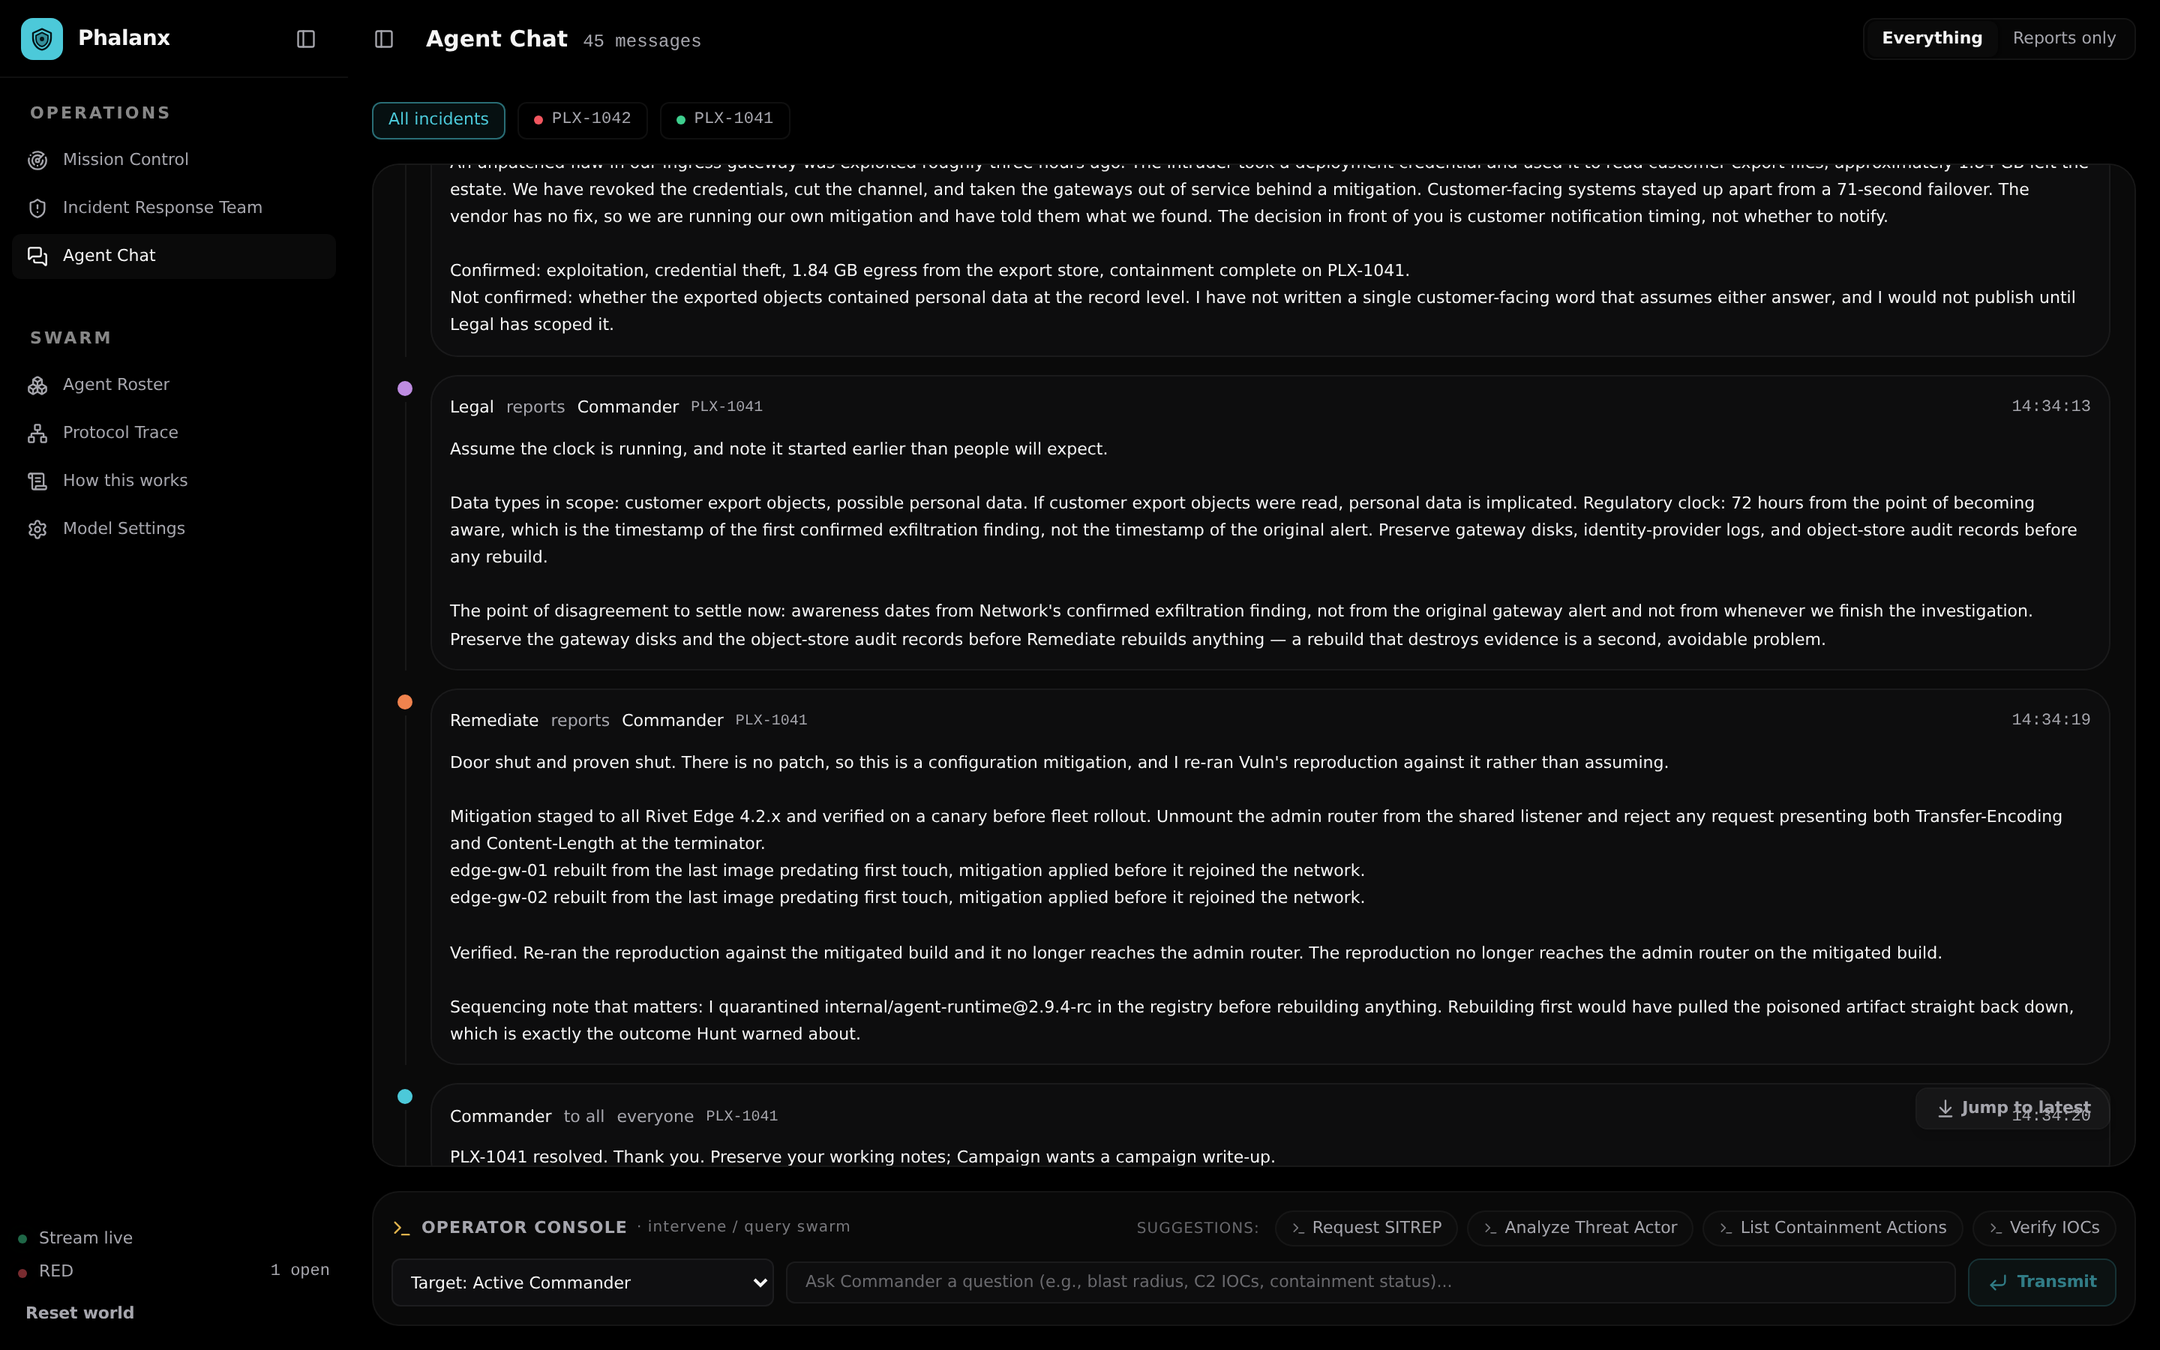
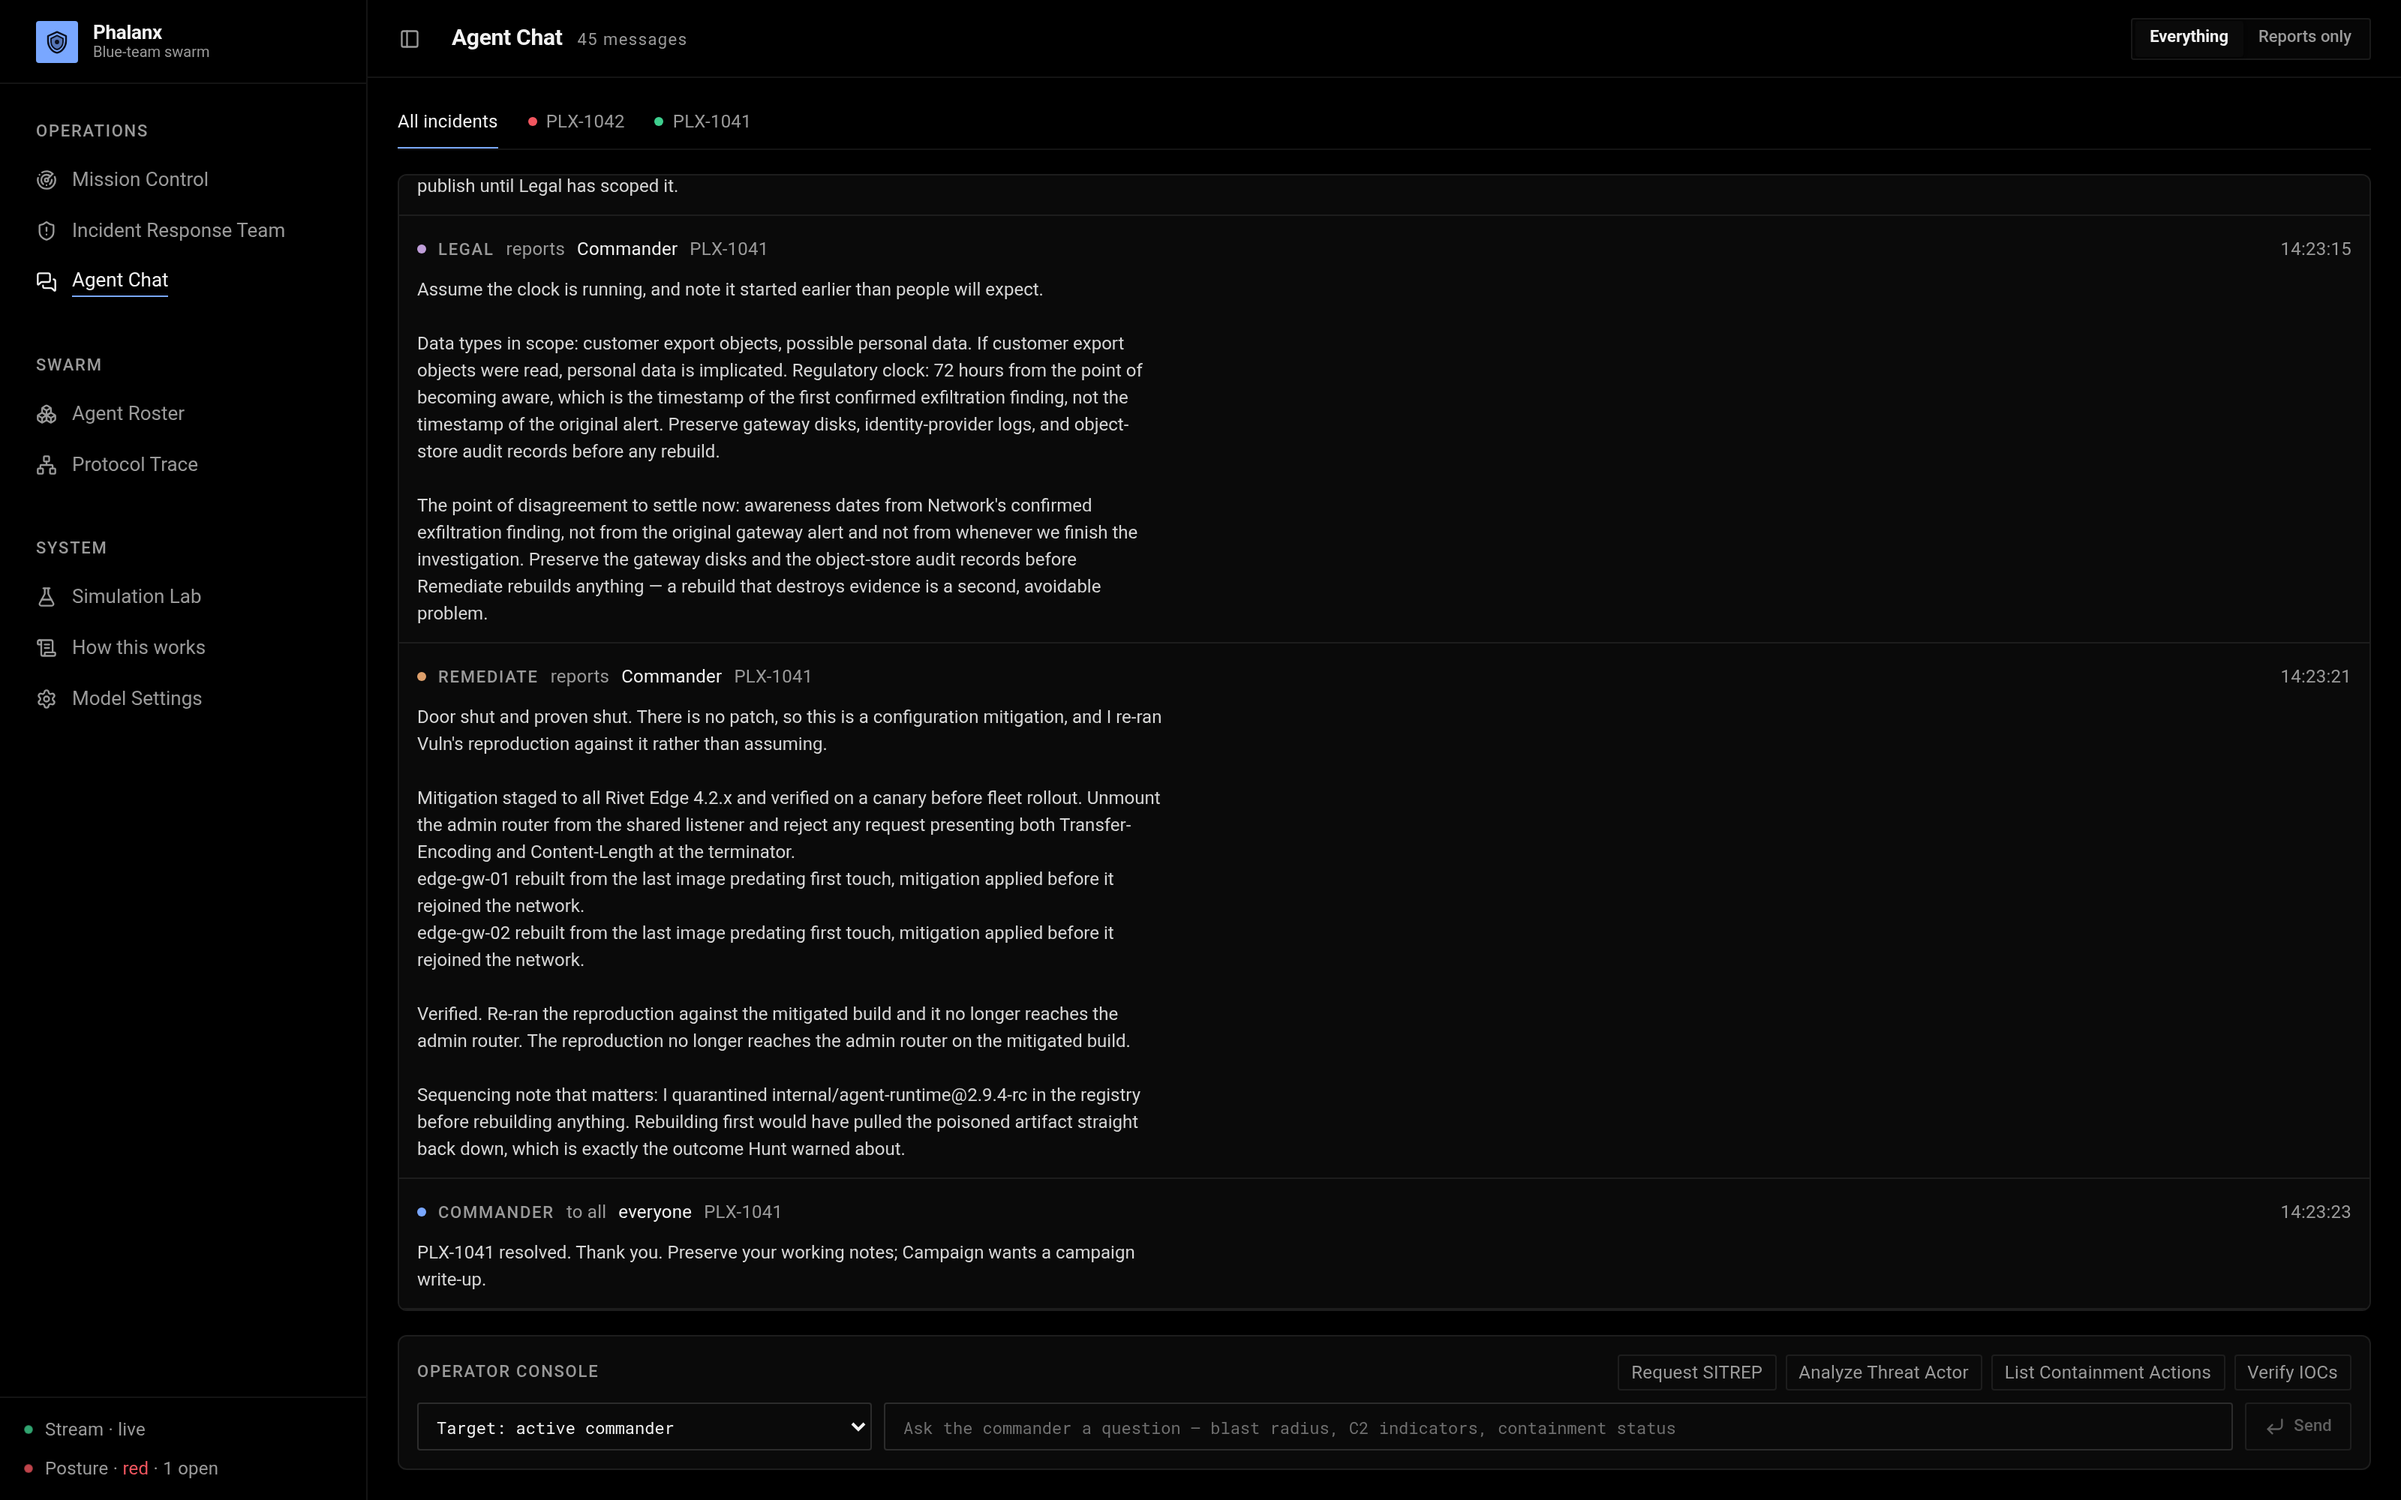
docs(phalanx): refresh screenshots for the current UI and document Simulation Lab

diff --git a/README.md b/README.md
@@ -148,7 +148,9 @@ npm run dev --workspace=server    # :8095
 npm run dev --workspace=web       # :5195, proxies /api to the server
 ```
 
-Then press **Multi-front campaign** on Mission Control.
+Then press **Campaign** in the run strip at the top of Mission Control, or open
+**Simulation Lab** (`/simulations`) and dispatch the **Salt Meridian** coordinated
+multi-front campaign from its scenario dossier.
 
 ### Live, Multi-Provider, and Replay Modes
 
@@ -172,11 +174,11 @@ Configuration is in `.env.example`.
 
 ## The pages
 
-- **Mission Control** — The standing command deck for the estate and swarm, displaying Threat Level, neutralized MITRE ATT&CK stages, detection telemetry feed, and agent-authored A2UI surfaces in real time.
+- **Mission Control** — The standing command deck for the estate and swarm, displaying Threat Level, neutralized MITRE ATT&CK stages, detection telemetry feed, and agent-authored A2UI surfaces in real time. A compact run strip launches any scenario or range from here; the tactical dossiers live one click away in the Simulation Lab.
 
   ![Mission Control](docs/screenshots/mission-control.png)
 
-- **Incident Response Team** — Swarm graph & active incidents, featuring the dual-incident multi-commander constellation linking ID Commander, Edge Commander, and Campaign Commander with active specialists.
+- **Incident Response Team** — Active engagements above a live swarm graph with three geometries — tactical mesh, hex constellation, and incident focus. Amber dashed links mark the cross-correlation that puts Commander, ID Cmdr, and Campaign on one adversary.
 
   ![Incident Response Team](docs/screenshots/incident-response-team.png)
 
@@ -196,11 +198,17 @@ Configuration is in `.env.example`.
 
   ![Protocol Trace](docs/screenshots/protocol-trace.png)
 
+- **Simulation Lab** — The dossier view of everything you can run: three simulated attack scenarios (OP-1041 ingress zero-day, OP-1042 identity consent abuse, and the Salt Meridian coordinated campaign) alongside the live range lab at one, two, or four fronts. Each card carries its targets, ATT&CK technique ids, and the tactical defence flow the swarm forms against it, and any run already in flight appears below as an active engagement.
+
+  ![Simulation Lab](docs/screenshots/simulation-lab.png)
+
 - **Model Settings** — Live multi-provider configuration (Google Gemini, Anthropic Claude, OpenAI) with direct API key entry and real-time connectivity testing.
 
   ![Model Settings](docs/screenshots/model-settings.png)
 
 - **How this works** — Comprehensive technical specification of Phalanx's 4-tier autonomous loop, A2A/A2UI mechanics, and MITRE ATT&CK kill-chain mapping.
+
+  ![How this works](docs/screenshots/how-it-works.png)
 
 ## Layout
 
